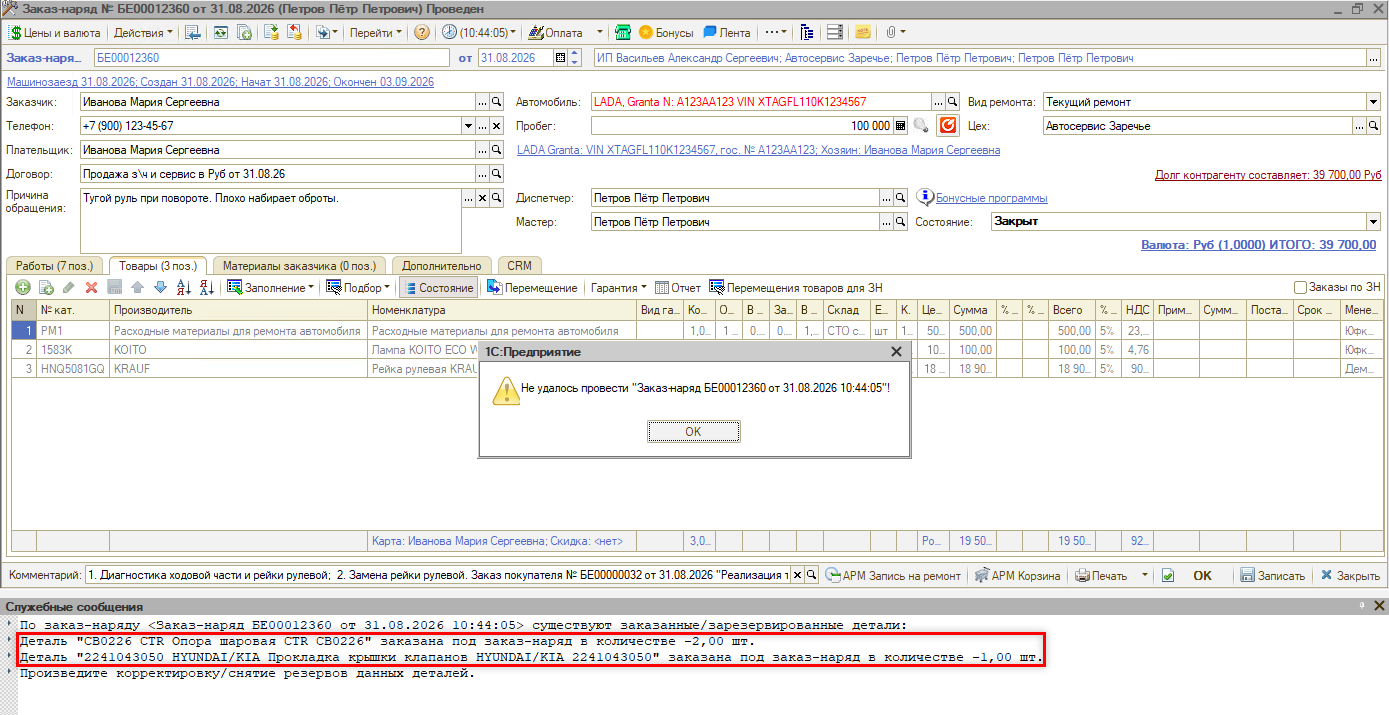
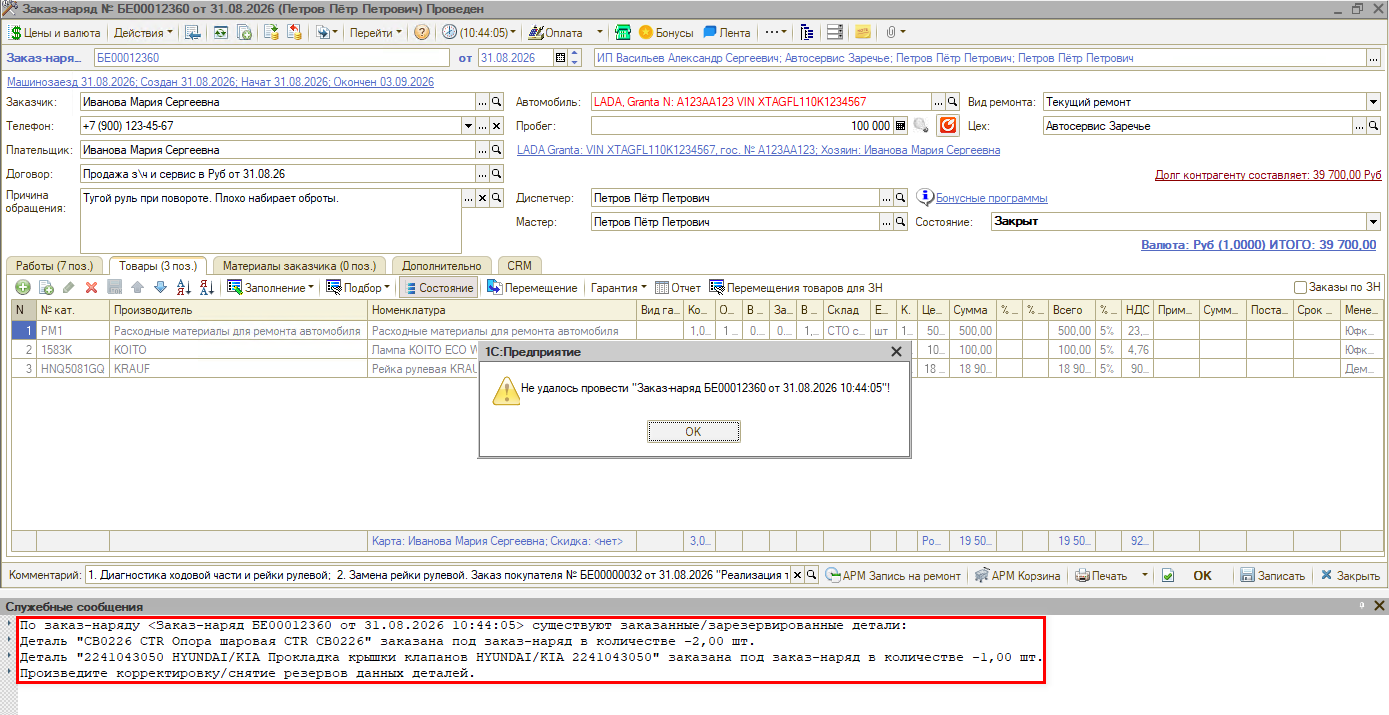
Совет «Не получается закрыть заказ-наряд: отрицательный резерв» (Katya): на 02 обводка расширена на весь текст сообщений с мягкой тенью, с 03 и 04 обводка снята (27.11.2026).

Changed region(s): [[0.0, 0.9231, 0.7739, 0.9538], [0.0, 0.8615, 0.7739, 0.8923]]

diff --git a/tips/5S AUTO/Автосервис/Не получается закрыть заказ-наряд, отрицательный резерв/ne-poluchaetsya-zakryt-zakaz-naryad-otricatelnyy-rezerv.md b/tips/5S AUTO/Автосервис/Не получается закрыть заказ-наряд, отрицательный резерв/ne-poluchaetsya-zakryt-zakaz-naryad-otricatelnyy-rezerv.md
@@ -27,7 +27,7 @@
 
 ![Заказ покупателя распроведен: в заголовке написано «Записан»](attachments/03-zakaz-pokupatelya-rasproveden.png)
 
-> 🛠 Комментарий для черновика: *Статус «Записан» обведён; осталось отметить неактивный значок отмены проведения на верхней панели (слева от «Перейти»).*
+> 🛠 Комментарий для черновика: *Обвести на скриншоте 03 статус «Записан» в заголовке окна и неактивный значок отмены проведения на верхней панели (слева от «Перейти»).*
 
 При распроведении документа по регистру заказов прошли обратные движения, поэтому заказанные под заказ-наряд детали и получили отрицательное количество. Заказ-наряд видит эти детали как заказанные, но снять с них резерв не может: резерва нет.
 
@@ -47,7 +47,7 @@
 
 ![Заказ покупателя проведен: в заголовке написано «Проведен»](attachments/04-zakaz-pokupatelya-proveden.png)
 
-> 🛠 Комментарий для черновика: *Статус «Проведен» обведён; при необходимости отметить активный значок отмены проведения слева от «Перейти» или кнопку «ОК» внизу справа.*
+> 🛠 Комментарий для черновика: *Обвести на скриншоте 04 статус «Проведен» в заголовке окна (и при необходимости активный значок отмены проведения слева от «Перейти» или кнопку «ОК» внизу справа).*
 
 **3. Если строки в заказе покупателя удалены, верните их.**
 
